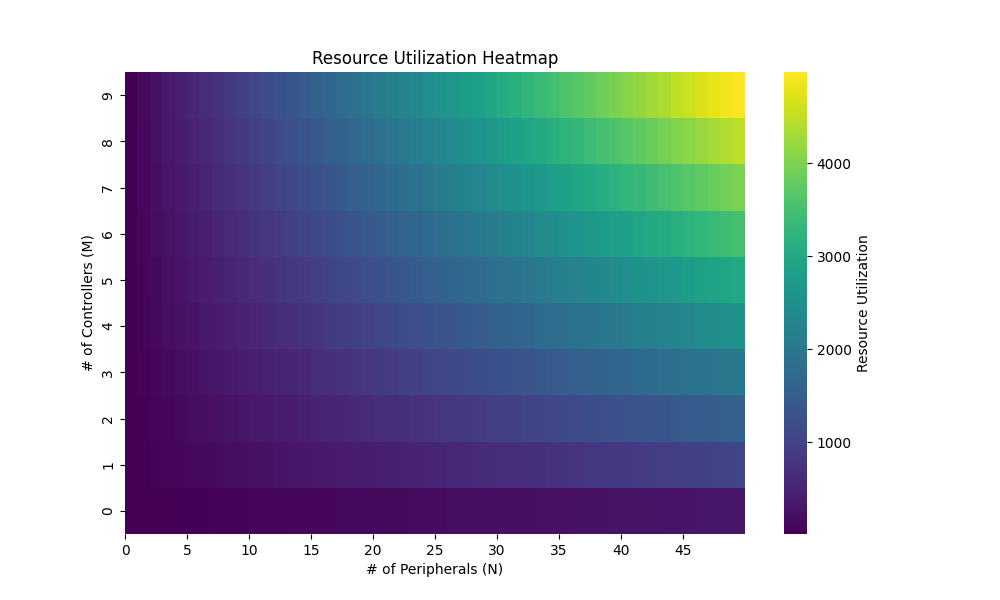
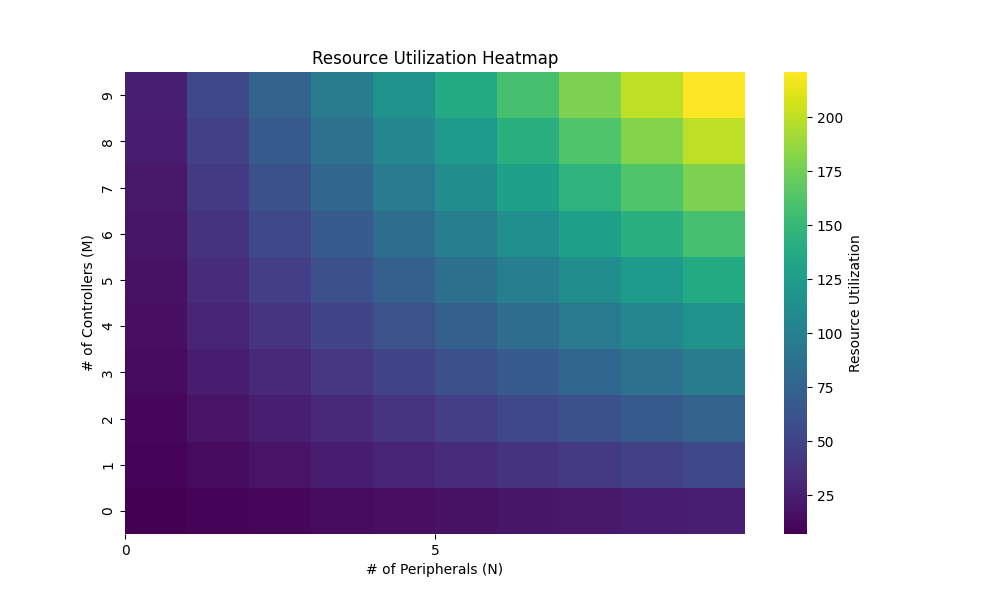
updated slides

diff --git a/project_hall_pass.tex b/project_hall_pass.tex
@@ -55,36 +55,119 @@
     \includegraphics[height=0.95\textheight,width=0.95\textwidth,keepaspectratio]{images/hallpass_a.png}
 \end{frame}
 
+\begin{frame}{High-Level Recap}
+    \centering
+    \includegraphics[height=0.95\textheight,width=0.95\textwidth,keepaspectratio]{images/intro.png}
+\end{frame}
+
 \begin{frame}{HallPass A}
-    Lowest level of security 
+    Highest level of performance \& lowest accuracy
     \begin{columns}
         \begin{column}{0.5\textwidth}
             \begin{itemize}
                 \item Identifies unintended proxy at peripheral level
             \end{itemize}
             \centering
-            \includegraphics[height=0.7\textheight,width=0.7\textwidth,keepaspectratio]{images/hallpass_a.png}
+            \includegraphics[height=0.7\textheight,width=0.7\textwidth,keepaspectratio]{images/hallpass_a_acm.png}
         \end{column}
     \end{columns}
 \end{frame}
 
 \begin{frame}{HallPass A}
-    Lowest level of security 
+    Highest level of performance \& lowest accuracy
     \begin{columns}
         \begin{column}{0.5\textwidth}
             \begin{itemize}
                 \item Identifies unintended proxy at peripheral level
             \end{itemize}
             \centering
-            \includegraphics[height=0.95\textheight,width=0.95\textwidth,keepaspectratio]{images/hallpass_a.png}
+            \includegraphics[height=0.95\textheight,width=0.95\textwidth,keepaspectratio]{images/hallpass_a_acm.png}
         \end{column}
        \begin{column}{0.5\textwidth}
             \begin{itemize}
-                \item Optimises perfomance vs security
+                \item Optimises perfomance vs resource utilization
             \end{itemize}
             \centering
             \includegraphics[height=0.5\textheight,width=0.5\textwidth,keepaspectratio]{images/hallpass_a_hist.png}
             \includegraphics[height=0.5\textheight,width=0.5\textwidth,keepaspectratio]{images/hallpass_a_util.png}
        \end{column} 
     \end{columns}
+\end{frame}
+
+\begin{frame}{HallPass B}
+    Moderate level of perfomance \& accuracy
+            \begin{itemize}
+                \item Identifies unintended proxy at address level
+            \end{itemize}
+            \centering
+            \includegraphics[height=0.85\textheight,width=0.85\textwidth,keepaspectratio]{images/halllpaass_b_slid1.png}
+\end{frame}
+
+\begin{frame}{HallPass B}
+    Moderate level of perfomance \& accuracy
+            \begin{itemize}
+                \item Identifies unintended proxy at address level
+            \end{itemize}
+            \centering
+            \includegraphics[height=0.85\textheight,width=0.85\textwidth,keepaspectratio]{images/hallpass_b_slid2.png}
+\end{frame}
+
+\begin{frame}{HallPass B}
+    Moderate level of perfomance \& accuracy
+    \begin{columns}
+        \begin{column}{0.5\textwidth}
+            \begin{itemize}
+                \item More resource utilization than version A
+            \end{itemize}
+            \centering
+            \includegraphics[height=0.85\textheight,width=0.85\textwidth,keepaspectratio]{images/hallpass_b_util.png}
+        \end{column}
+        \begin{column}{0.6\textwidth}
+            \centering
+            \includegraphics[height=0.85\textheight,width=0.85\textwidth,keepaspectratio]{images/hallpass_b_hist.png}
+        \end{column}
+    \end{columns}            
+\end{frame}
+
+\begin{frame}{HallPass C}
+    Lowest level of perfomance \& highest accuracy
+            \begin{itemize}
+                \item Identifies unintended proxy at bit level
+            \end{itemize}
+            \centering
+            \includegraphics[height=0.85\textheight,width=0.85\textwidth,keepaspectratio]{images/hallpass_c_slid1.png}
+\end{frame}
+
+\begin{frame}{HallPass C}
+    Lowest level of perfomance \& highest accuracy
+            \begin{itemize}
+                \item Identifies unintended proxy at bit level
+            \end{itemize}
+            \centering
+            \includegraphics[height=0.85\textheight,width=0.85\textwidth,keepaspectratio]{images/hallpass_c_slid2.png}
+\end{frame}
+
+\begin{frame}{HallPass C}
+    Lowest level of perfomance \& highest accuracy 
+    \begin{columns}
+        \begin{column}{0.5\textwidth}
+            \begin{itemize}
+                \item More resource utilization than version A and B
+            \end{itemize}
+            \centering
+            \includegraphics[height=0.85\textheight,width=0.85\textwidth,keepaspectratio]{images/10x10 heatmap HP_C.png}
+        \end{column}
+        \begin{column}{0.6\textwidth}
+            \centering
+            \includegraphics[height=0.85\textheight,width=0.85\textwidth,keepaspectratio]{images/10x10 histogram HP_C.png}
+        \end{column}
+    \end{columns}            
+\end{frame}
+
+\begin{frame}{Next Steps}
+    \begin{enumerate}
+        \item Code optimization and cleanup
+        \item Calculate the rate of false positives in versions A and B
+        \item Simulate the resource utilization in SystemVerilog with Vivado
+    \end{enumerate}
 \end{frame}
